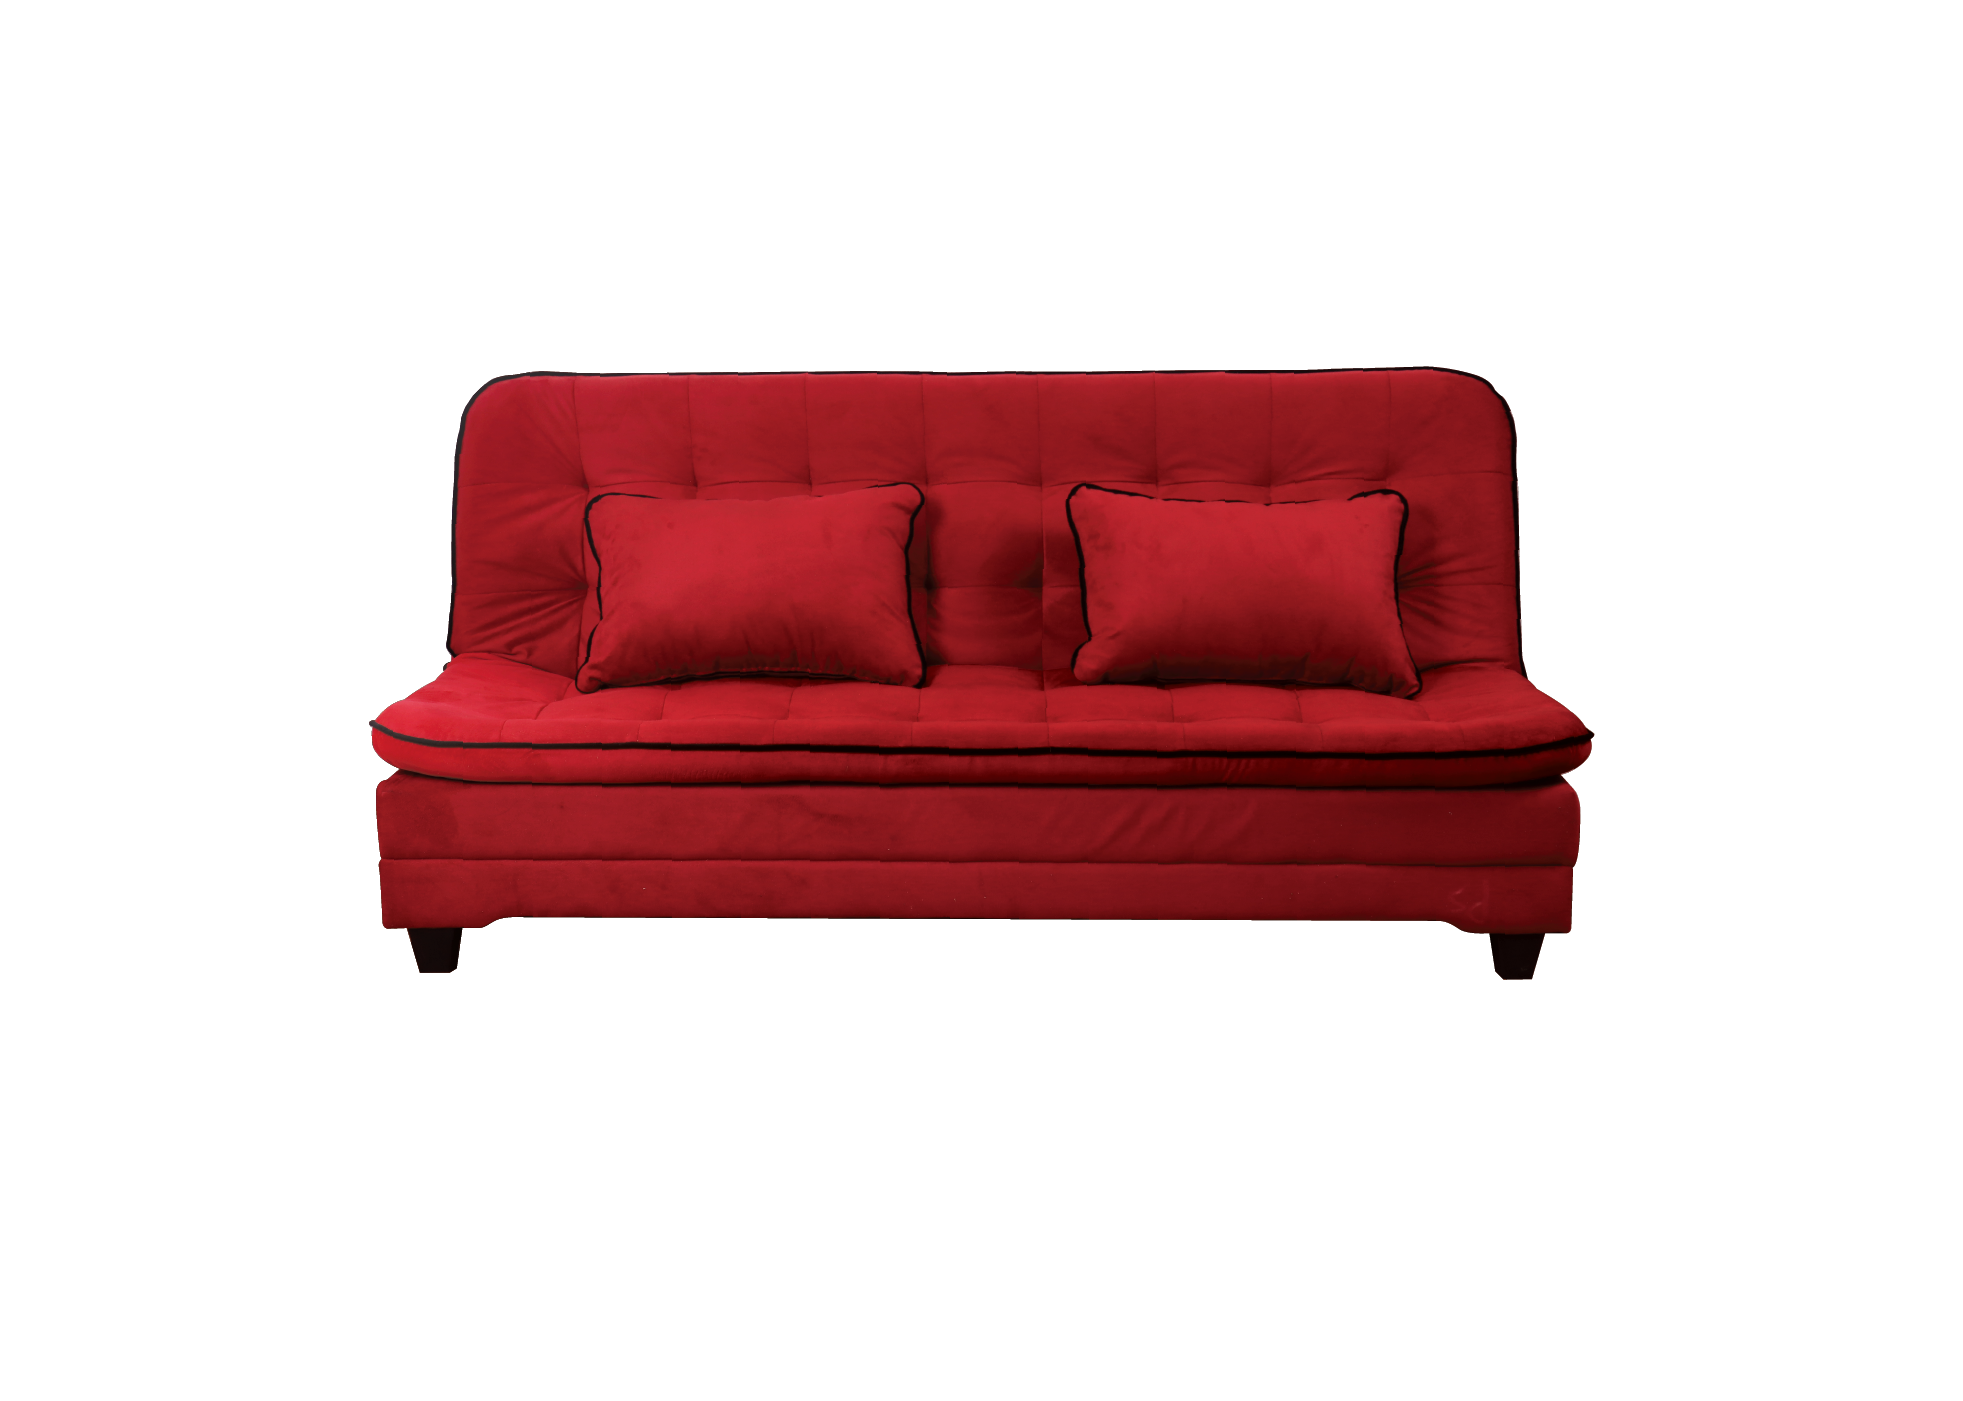
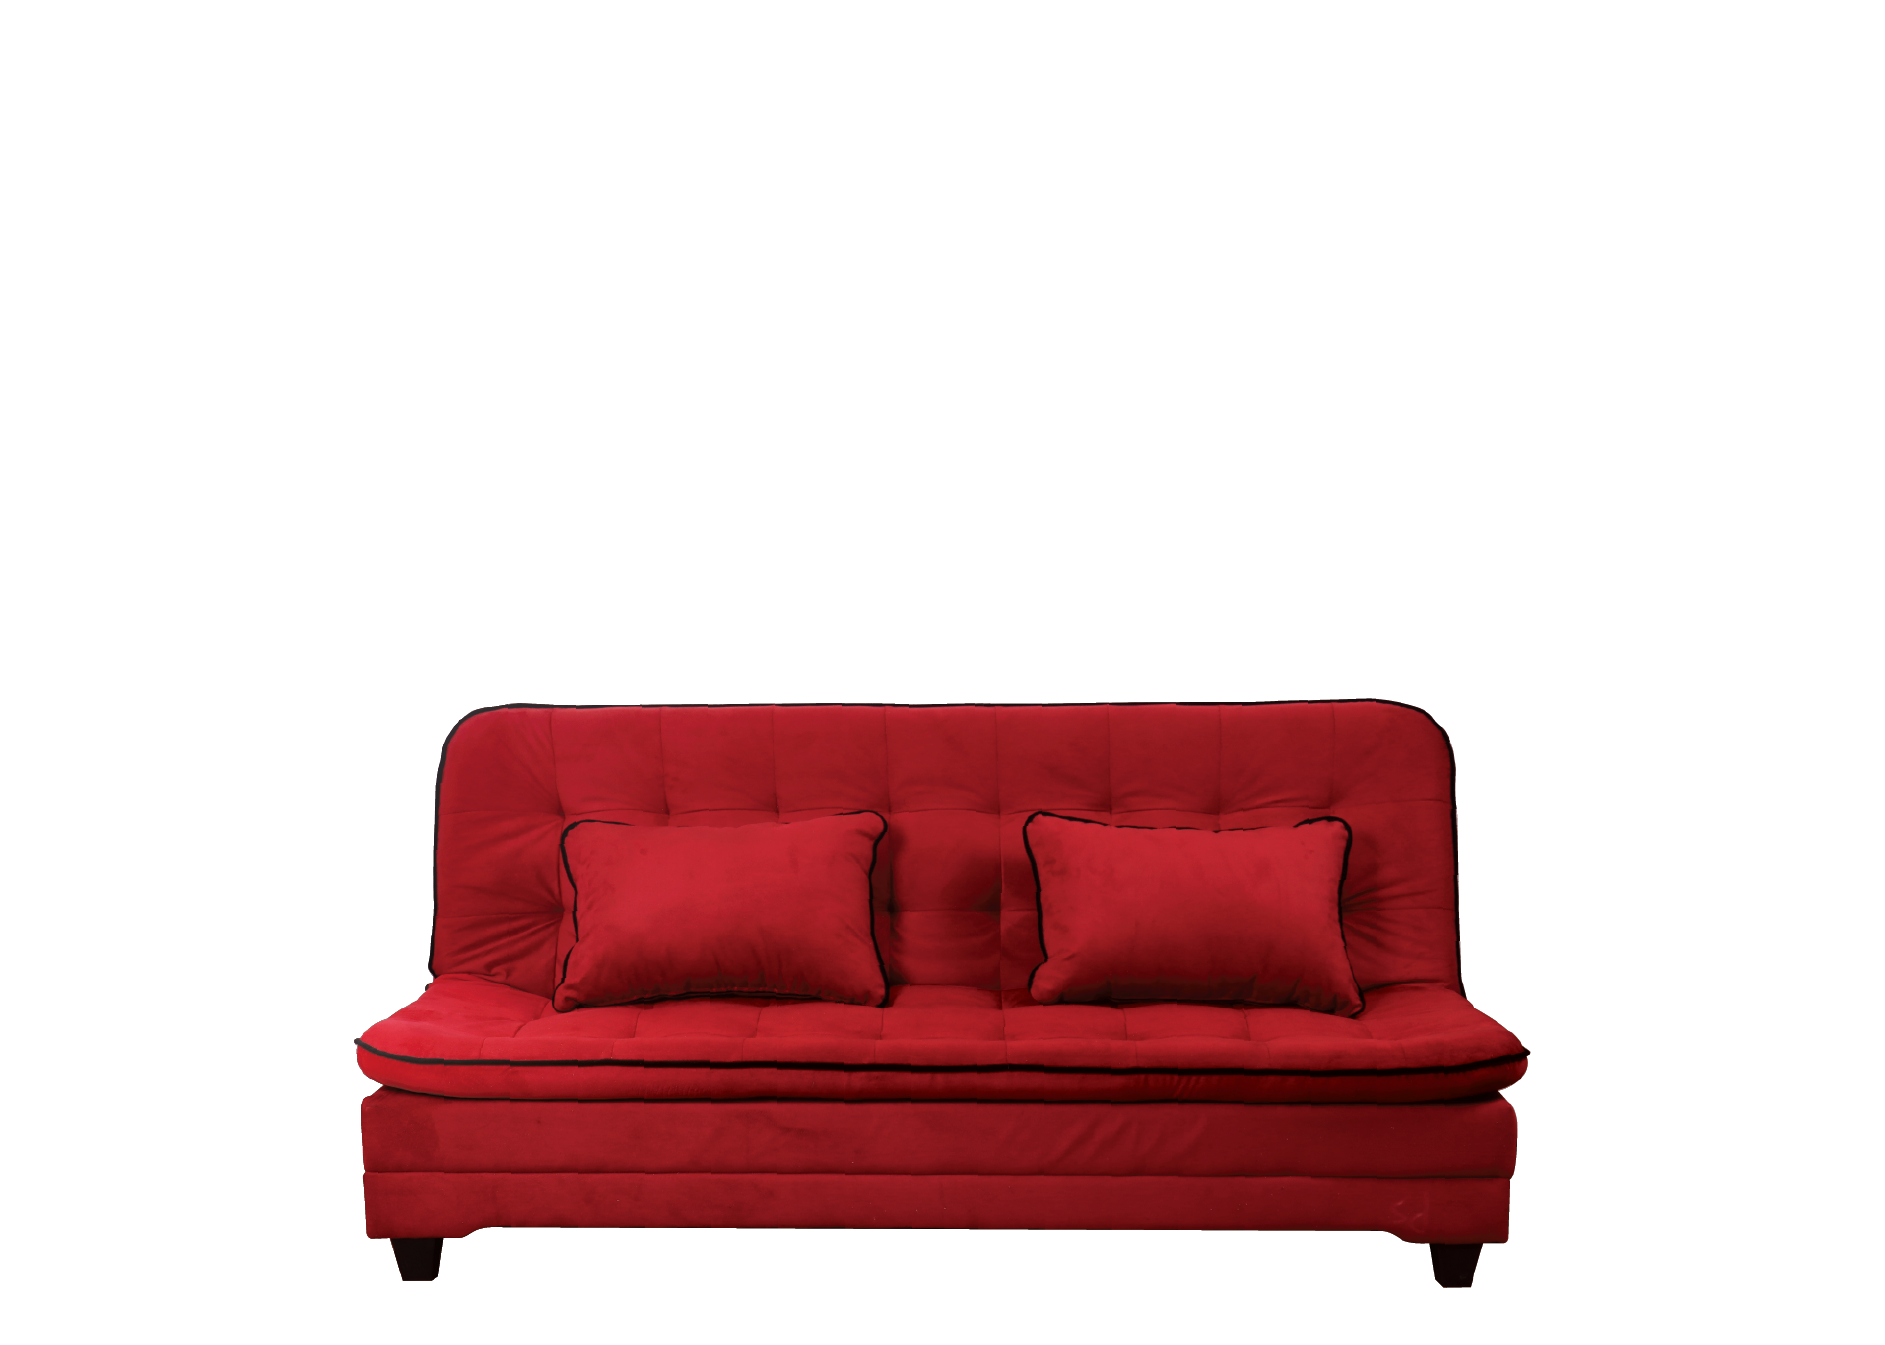
adjust asset

diff --git a/src/Slidebarang.js b/src/Slidebarang.js
@@ -12,24 +12,24 @@ class SlideBarang extends React.Component{
     render(){
         return(
             <Container fluid style={{backgroundImage:`url(${bg})`,backgroundSize:'100%',backgroundPosition:'center',backgroundRepeat:'none'}} className='w-100'>
-                <Row>
-                    <Col className="w-50 pt-5">
+                <Row className="h-75">
+                    <Col className="w-50">
                         <Carousel indicators={false} className="align-items-end">
-                            <Carousel.Item className="align-items-end">
-                                <img alt="gambar meja makan 1" src={mm1} className="w-100 d-flex align-items-end"/>
+                            <Carousel.Item className="position-relative">
+                                <img alt="gambar meja makan 1" src={mm1} className="w-100 d-flex absolute-bottom"/>
                             </Carousel.Item>
-                            <Carousel.Item>
-                                <img alt="gambar meja makan 2" src={mm2} className="w-100 d-flex align-items-end"/>
+                            <Carousel.Item className="position-relative">
+                                <img alt="gambar meja makan 2" src={mm2} className="w-100 d-flex absolute-bottom"/>
                             </Carousel.Item>
                         </Carousel>
                     </Col>
                     <Col className="w-50">
-                        <Carousel  indicators={false}>
+                        <Carousel  indicators={false}  className="align-items-end">
                             <Carousel.Item className="position-relative">
                                 <img alt="gambar sofa 1"  src={sofa1} className="w-100 d-flex absolute-bottom"/>
                             </Carousel.Item>
-                            <Carousel.Item>
-                                <img alt="gambar sofa 2"  src={sofa2} className="w-100 d-flex align-items-end "/>
+                            <Carousel.Item className="position-relative">
+                                <img alt="gambar sofa 2"  src={sofa2} className="w-100 d-flex absolute-bottom"/>
                             </Carousel.Item>
                         </Carousel>
                     </Col>

diff --git a/src/Footer.js b/src/Footer.js
@@ -1,4 +1,5 @@
 import React from 'react';
+import { Col, Row } from 'react-bootstrap';
 //import logo from './logo.png';
 import Container from 'react-bootstrap/Container';
 import Navbar from 'react-bootstrap/Navbar';
@@ -8,18 +9,20 @@ class Footer extends React.Component{
     render(){
         return(
             <Navbar className='font-weight-bold' style={{backgroundColor: '#2e3192'}}>
-                <Container >
-                <Navbar.Text className='text-white'>
-                    <h3>About Us</h3>
-                    <p>WA : +62 851-5653-0969 <br/> IG : @difamebel</p>
-                </Navbar.Text>
-                <Navbar.Text className='text-white'>
-                    <h3>Our Store</h3>
-                    <p>Toko Wendit<br/>
-                    Jalan Raya Wendit Barat No 6 Ruko C-D, Lowoksoro, Mangliawan, Kec. Pakis, Kabupaten Malang, Jawa Timur 65154
-                    </p>
-                    <p>Toko Dinoyo Mall<br/>Mall Dinoyo Lantai 1, FR. 1 No. 5.8 ,MT Haryono, Lowokwaru, Dinoyo, Kecamatan Lowokwaru, Dinoyo, Kec. Lowokwaru, Kota Malang, Jawa Timur 65144</p>
-                </Navbar.Text>
+                <Container className='text-white'>
+                    <Row xs={1} lg={2}>
+                        <Col md="3">
+                            <h3>About Us</h3>
+                            <p>WA : +62 851-5653-0969 <br/> IG : @difamebel</p>
+                        </Col>
+                        <Col md="9">
+                            <h3>Our Store</h3>
+                            <p>Toko Wendit<br/>
+                            Jalan Raya Wendit Barat No 6 Ruko C-D, Lowoksoro, Mangliawan, Kec. Pakis, Kabupaten Malang, Jawa Timur 65154
+                            </p>
+                            <p>Toko Dinoyo Mall<br/>Mall Dinoyo Lantai 1, FR. 1 No. 5.8 ,MT Haryono, Lowokwaru, Dinoyo, Kecamatan Lowokwaru, Dinoyo, Kec. Lowokwaru, Kota Malang, Jawa Timur 65144</p>
+                        </Col>
+                    </Row>
                 </Container>
             </Navbar>
    

diff --git a/src/Kategori.js b/src/Kategori.js
@@ -11,7 +11,7 @@ class Kategori extends React.Component{
                 <Row className="text-center mt-5">
                     <h1>Kategori Product</h1>
                 </Row>
-                <Row className="mt-2 w-75 mx-auto mb-5">
+                <Row className="mt-2 w-75 mx-auto mb-5" xs={2} lg={4}>
                     <Col>
                         <Card className="w-100 mx-auto shadow">
                             <Card.Img src={rt} style={{width: "100%",objectFit: "cover"}}/>
